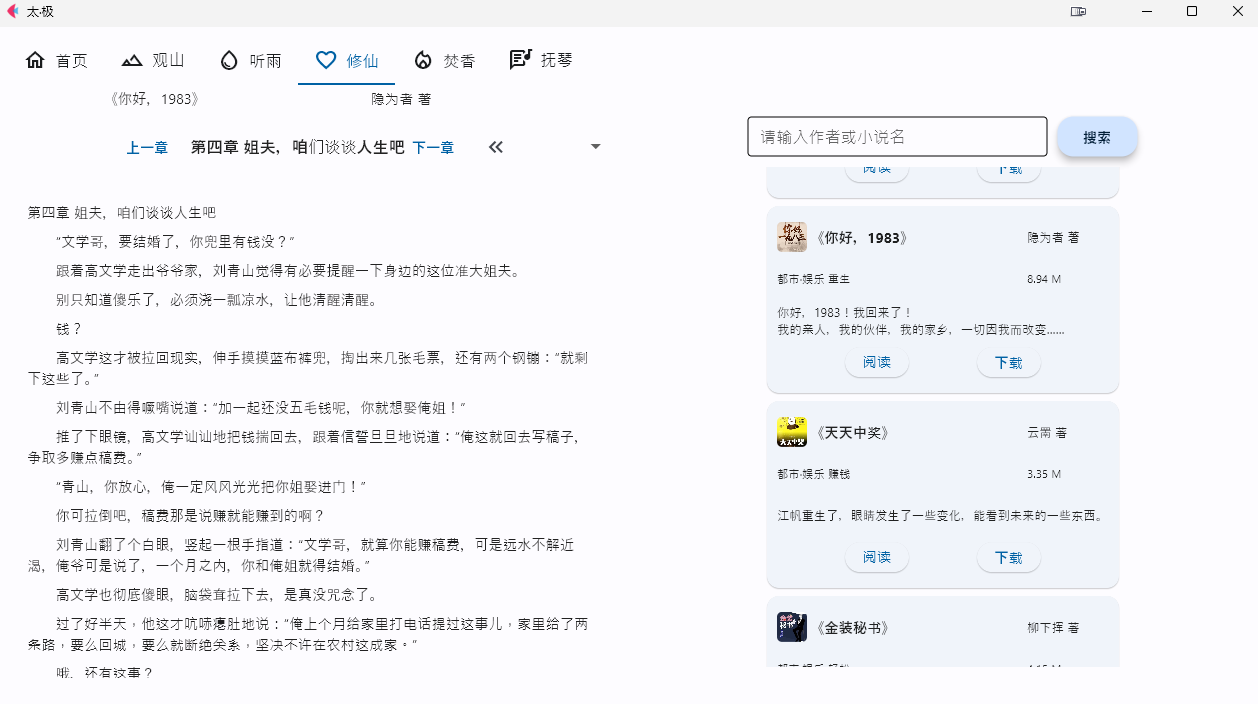
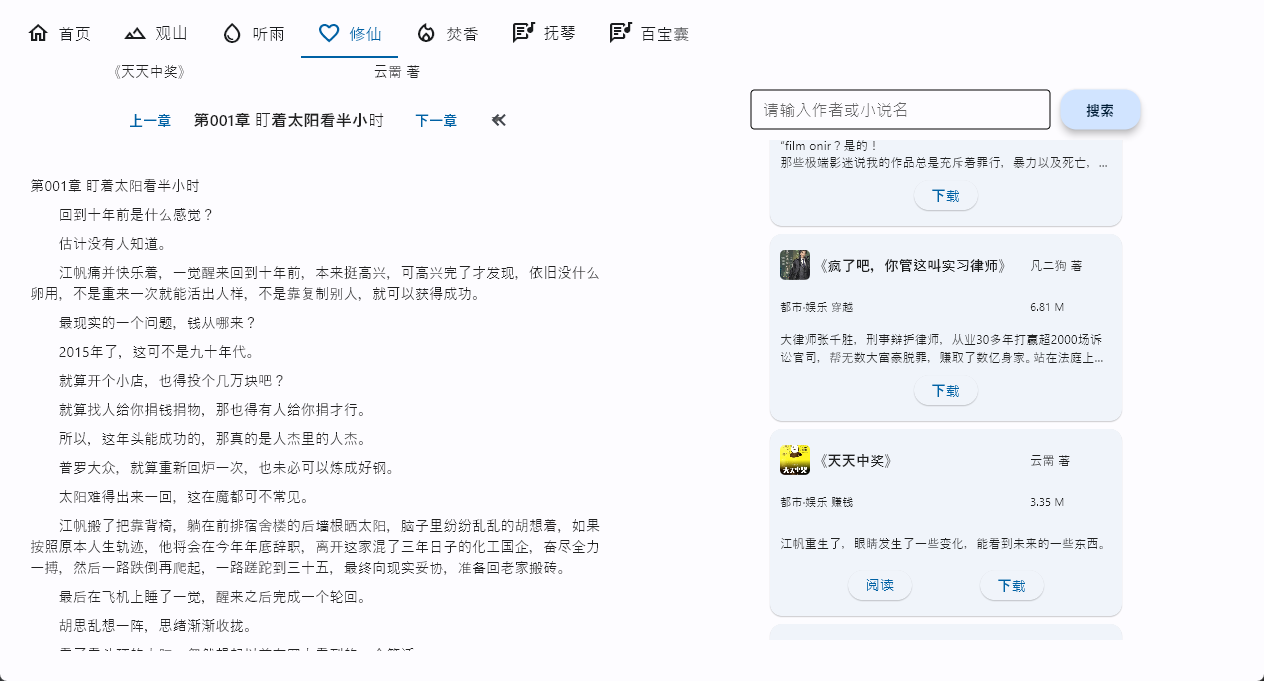
更新readme

diff --git a/README.md b/README.md
@@ -20,7 +20,11 @@
 ## 抚琴——磁力链接聚合搜索
 ![抚琴](./docs/lyra.png)
 
+## 百宝箱——目前只能pdf转word
+![百宝箱](./docs/treasure.png)
 ## 使用方法
+注： output文件加下面又打包好的，可以解压使用
+
 下载本项目
 `
 python -m pip install -r requirements.txt
